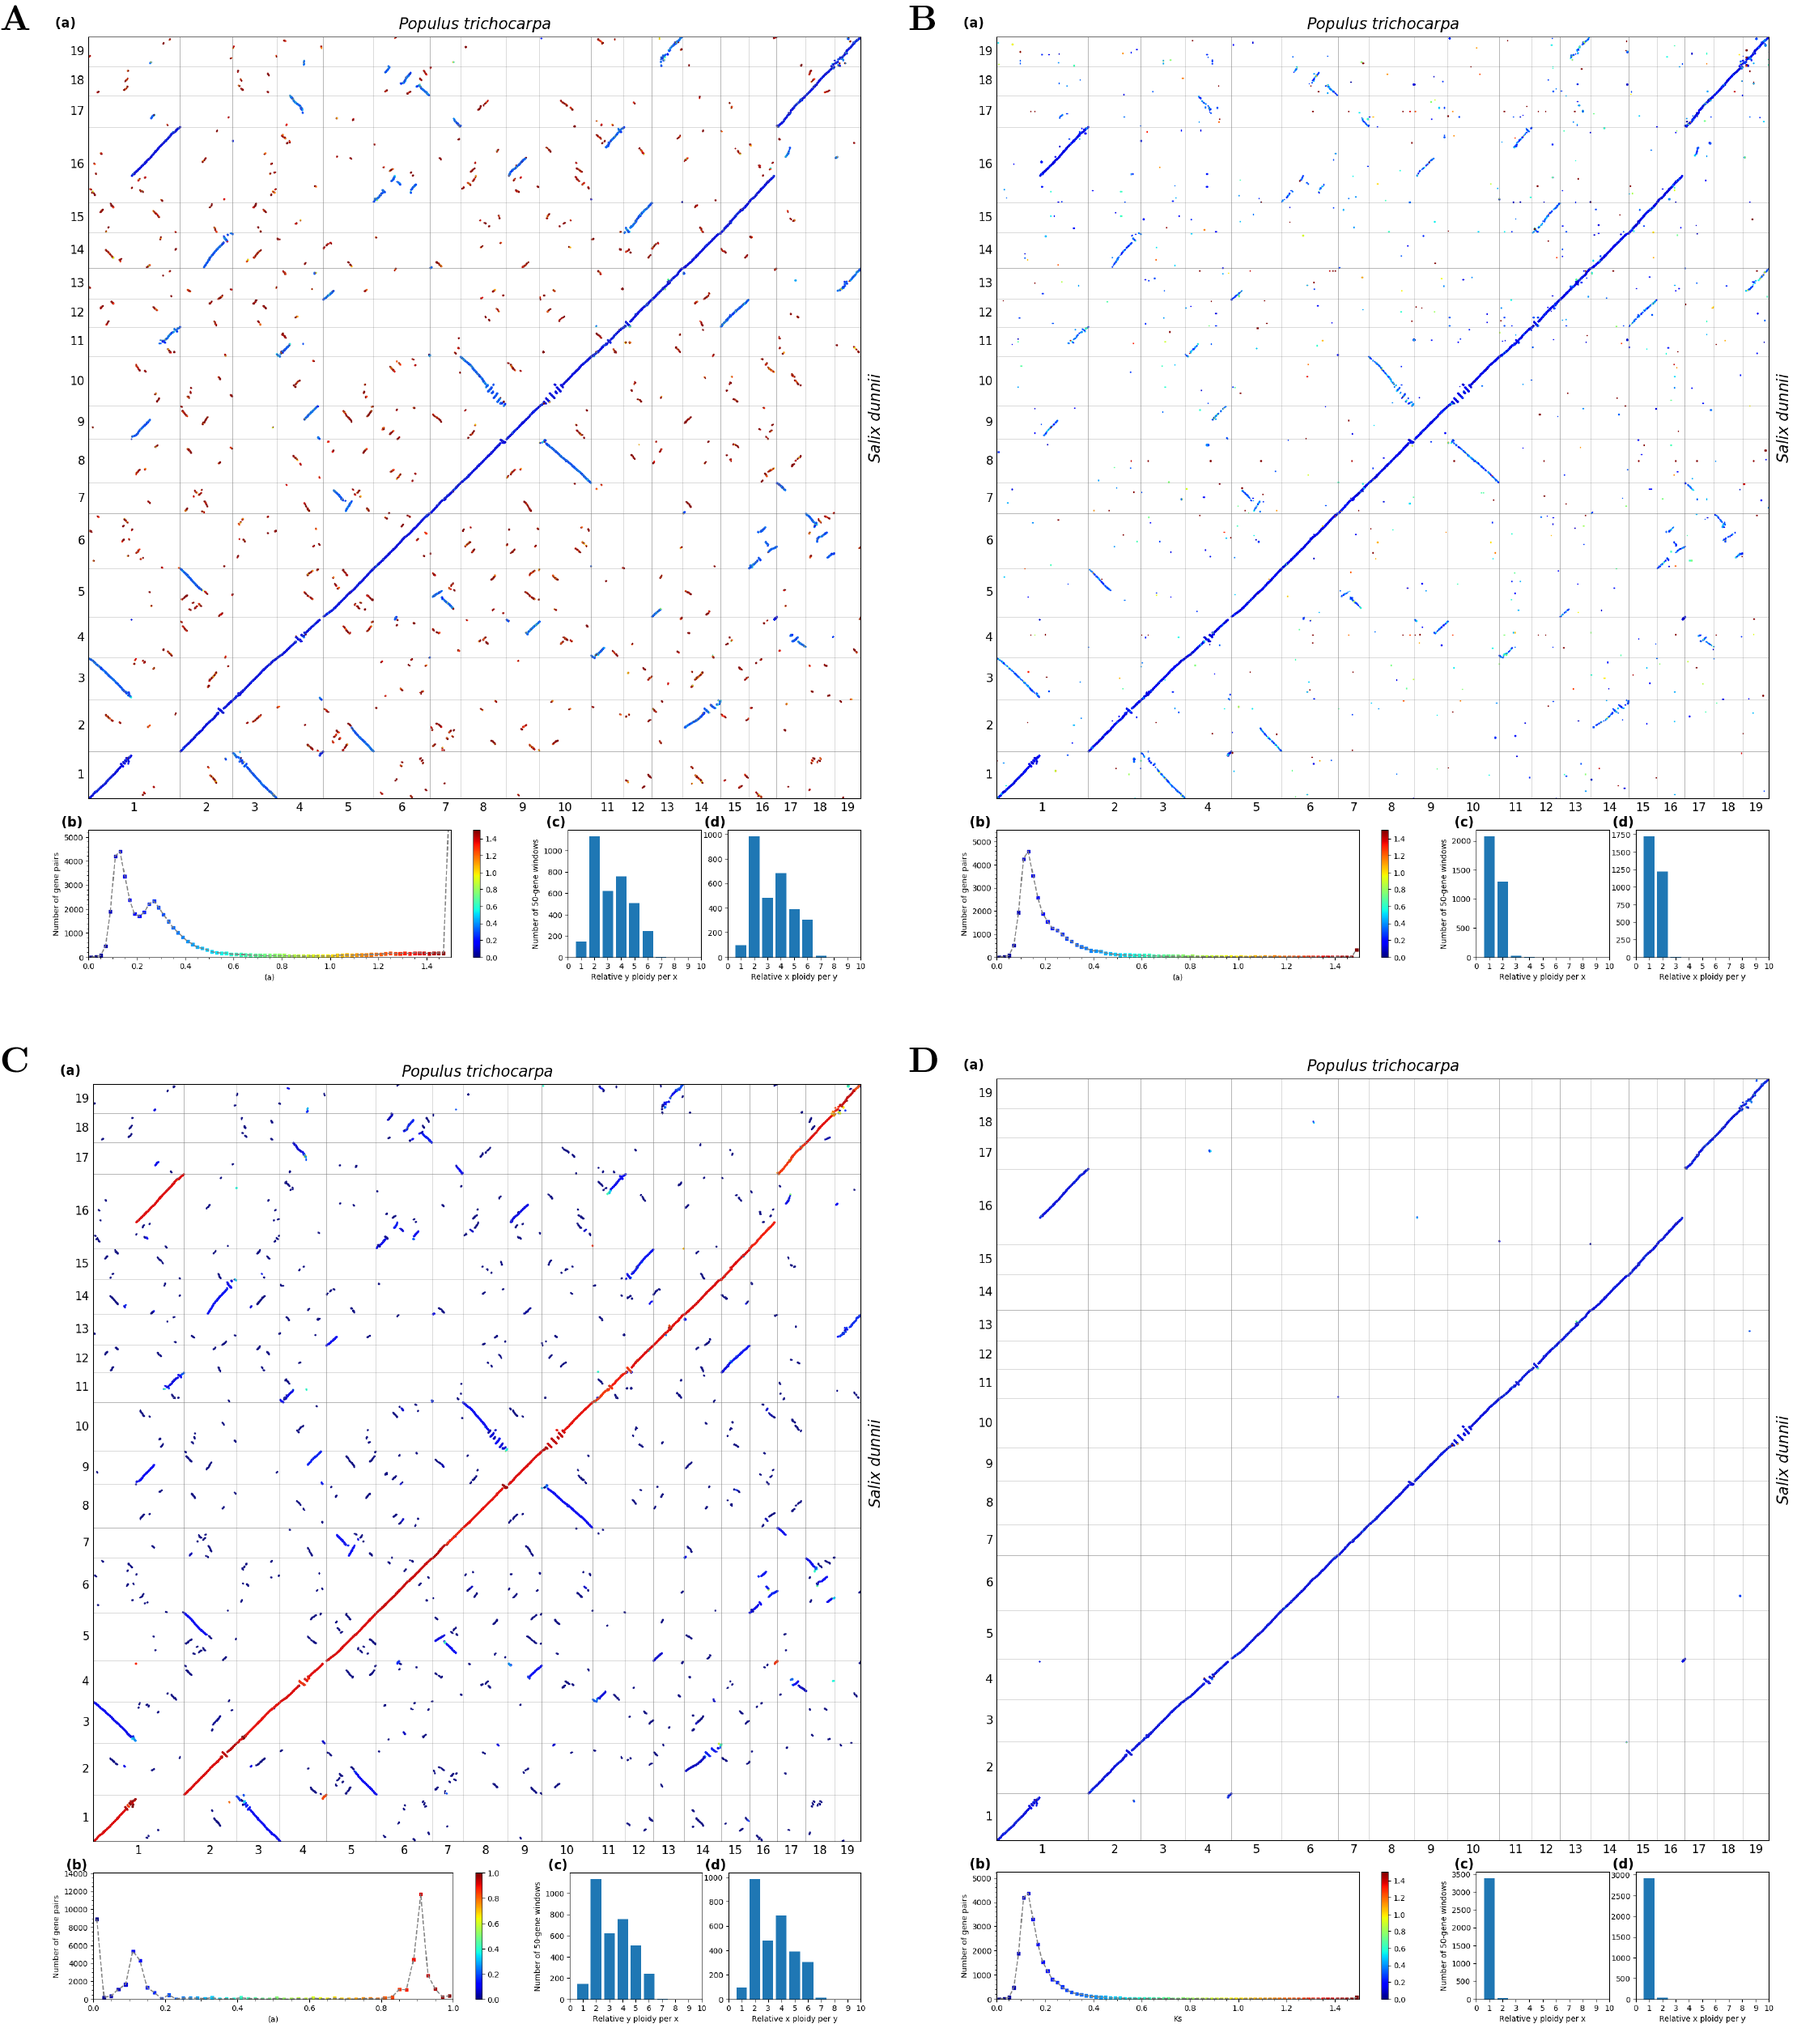
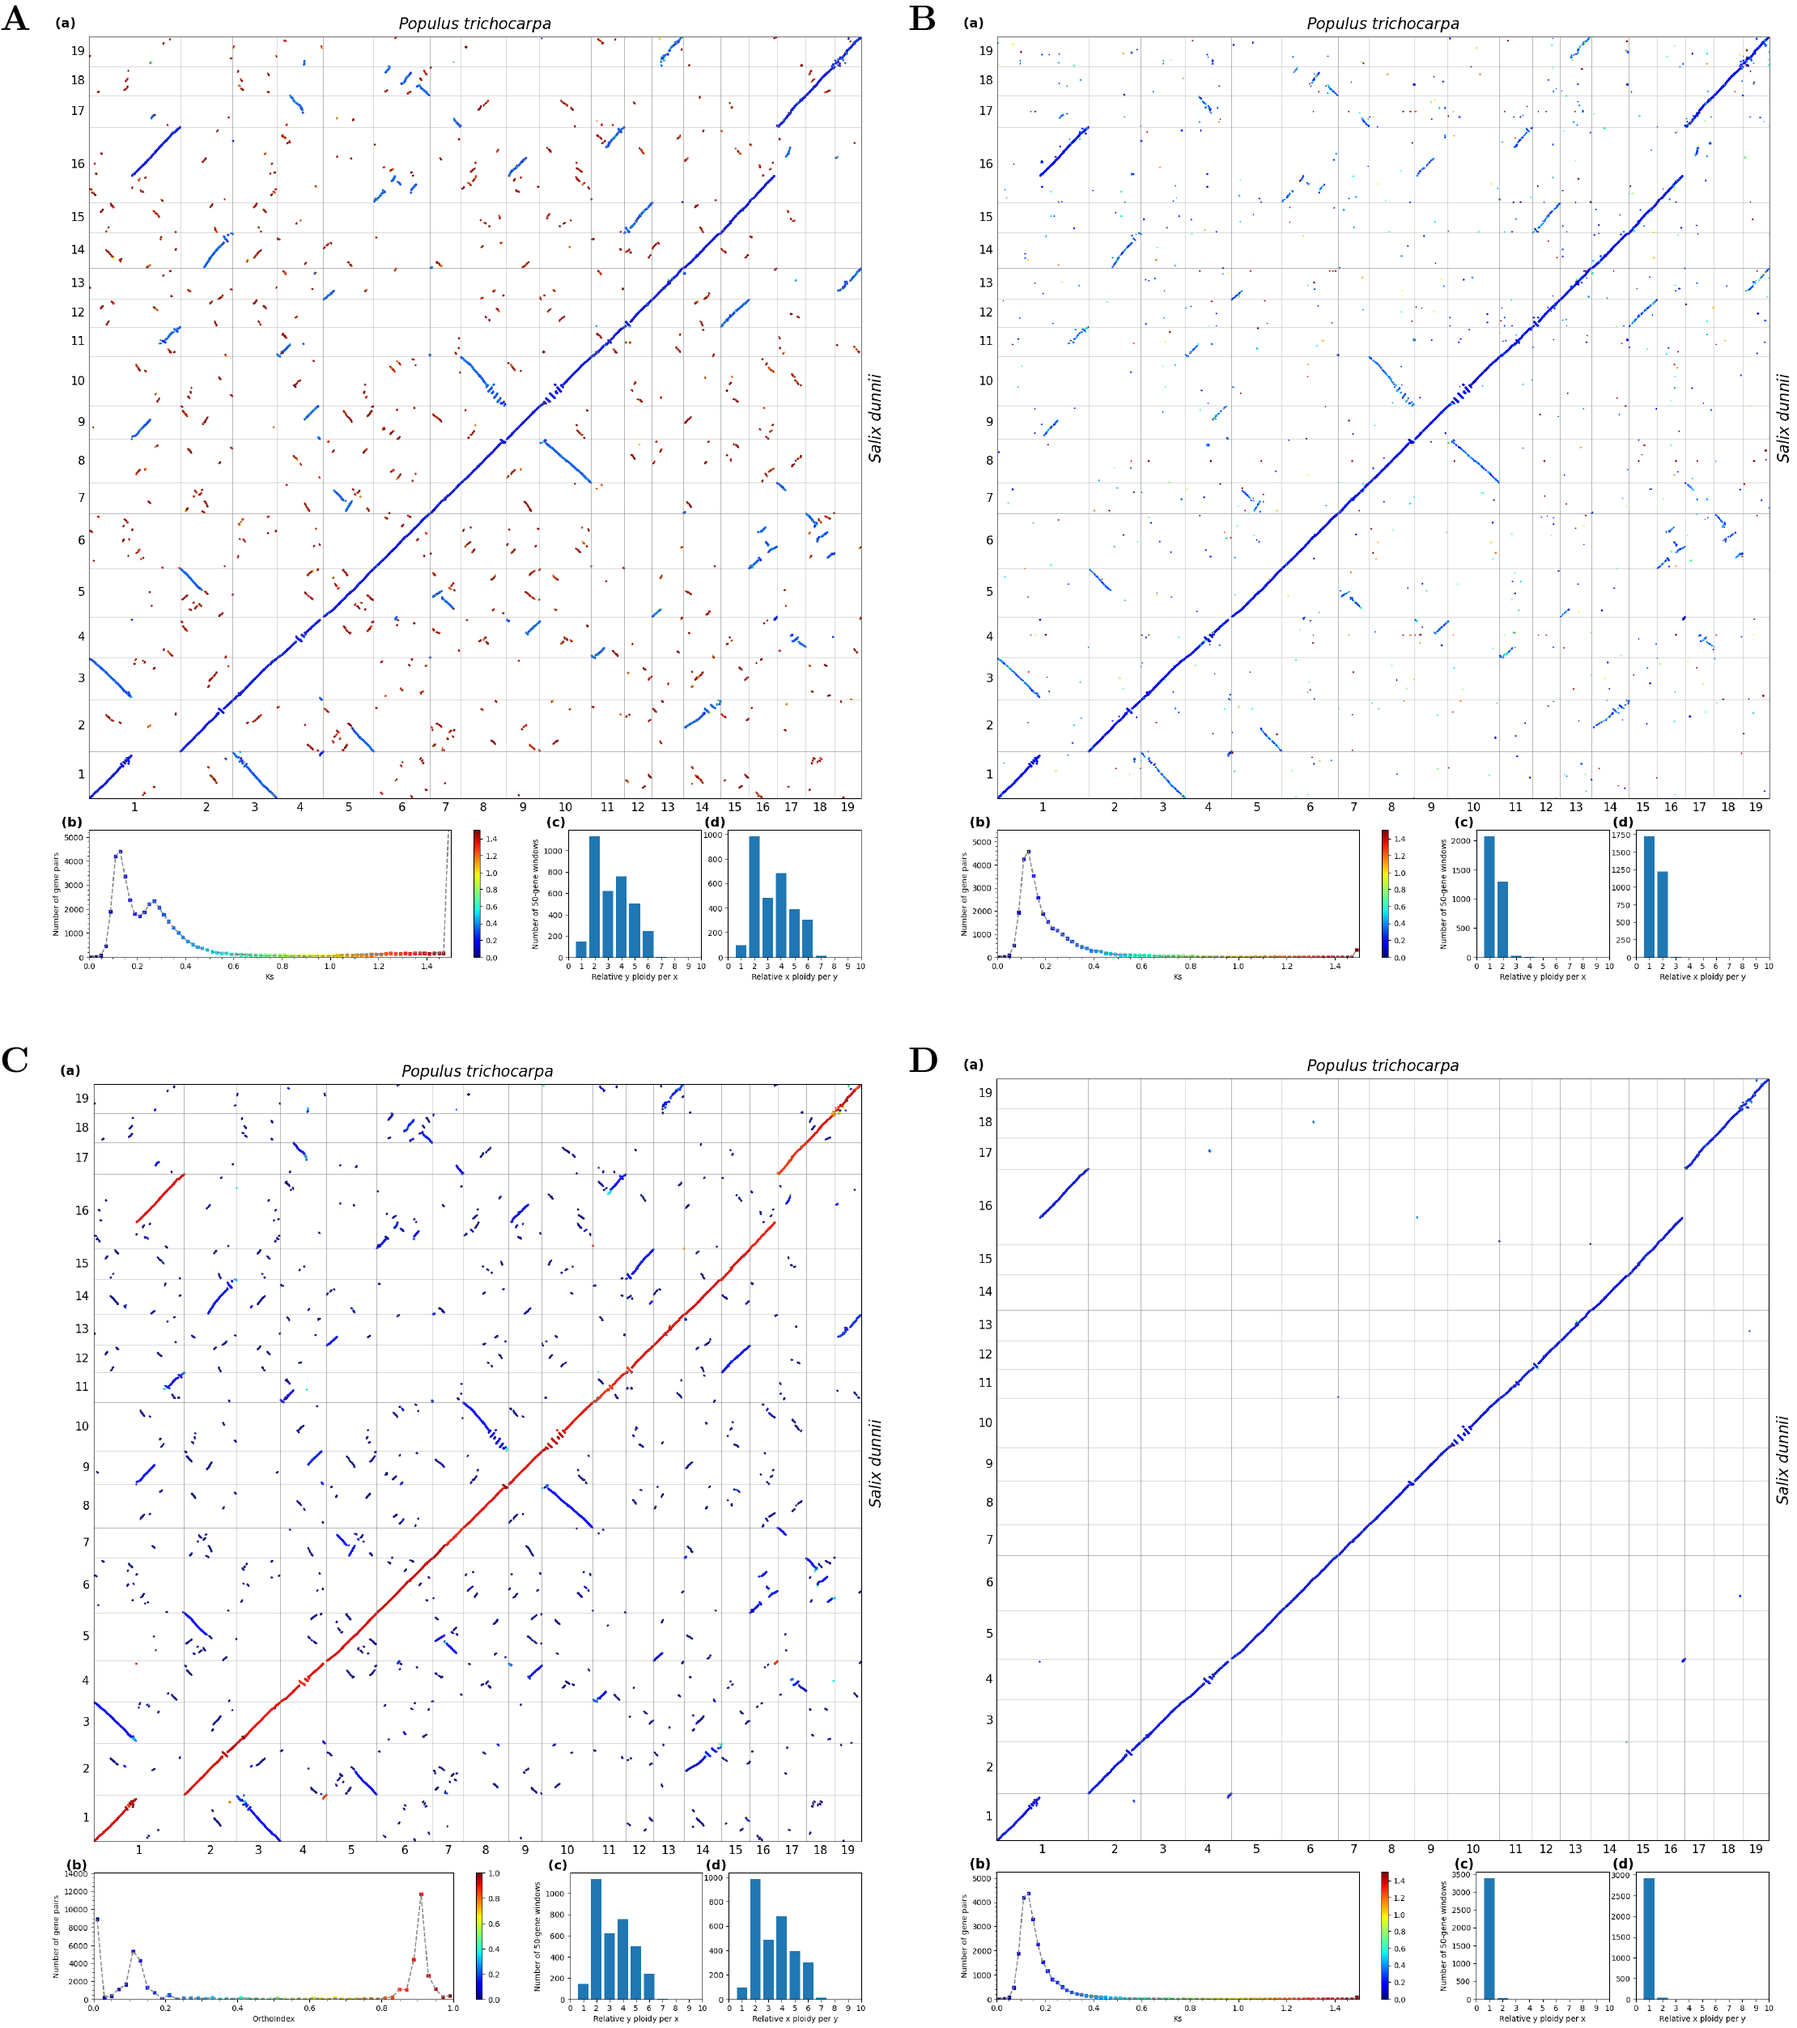
update readme and figure

diff --git a/README.md b/README.md
@@ -1,3 +1,20 @@
+## Table of Contents
+
+   * [Quick start](#Quick-start)
+   * [Introduction](#introduction)
+   * [Installation](#Installation)
+      - [conda](#conda)
+      - [Apptainer/Singularity](#apptainersingularity)
+   * [Subcommands](#Subcommands)
+      - [filter](#filter)
+      - [cluster](#cluster)
+      - [outgroup](#outgroup)
+      - [phylo](#phylo)
+      - [dotplot](#dotplot)
+   * [Phylogenomics pipeline](#Phylogenomics-pipeline)
+   * [Input formats](#input-formats)
+   * [Output formats](#output-formats)
+
 ## Quick start ##
 ```
 git clone https://github.com/zhangrengang/orthoindex.git
@@ -56,22 +73,22 @@ soi filter -s Populus_trichocarpa-Salix_dunnii.collinearity.gz -o Populus_tricho
 ```
 ### Example output dot plots ###
 ![dotplots](example_data/mege_4dot.png)
-
-## Table of Contents
-
-   * [Introduction](#introduction)
-   * [Installation](#Installation)
-      - [conda](#conda)
-      - [Apptainer/Singularity](#apptainersingularity)
-   * [Subcommands](#Subcommands)
-      - [filter](#filter)
-      - [cluster](#cluster)
-      - [outgroup](#outgroup)
-      - [phylo](#phylo)
-      - [dotplot](#dotplot)
-   * [Phylogenomics pipeline](#Phylogenomics-pipeline)
-   * [Input formats](#input-formats)
-   * [Output formats](#output-formats)
+Figure. The Orthology Index in identifying orthologous synteny: a typical case. 
+A) Ks-colored dot plots showing synteny detected by WGDI, 
+with an observable distinction of three categories of syntenic blocks derived from three evolutionary events 
+(three peaks: Ks ≈ 1.5, Ks ≈ 0.27, and Ks ≈ 0.13). 
+B) Ks-colored dot plots illustrating orthology inferred by OrthoFinder2, with an observable high proportion of hidden out-paralogs (Ks ≈ 0.27). 
+C) Orthology Index (OI)-colored dot plots: integrating synteny (A) and orthology (B), 
+with polarized and scalable distinction of three categories of syntenic blocks 
+(three peaks: OI ≈ 0, OI ≈ 0.1, and OI ≈ 0.9). 
+D) Ks-colored dot plots of synteny after applying an OI cutoff of 0.6, 
+with clean 1:1 orthology as expected from the evolutionary history. 
+A-D are plotted using the `dotplot` subcommand with four subplots: 
+a) dot plots with colored by Ks or OI (x-axis and y-axis, chromosomes of the two genomes; 
+a dot indicates a homologous gene pair between the two genomes), 
+b) histogram (with the same color map as the dot plots) of Ks or OI 
+(x-axis, Ks or OI; y-axis, number of homologous gene pairs), 
+c-d) synteny depth (relative ploidy) derived from 50-gene windows (x-axis, synteny depth; y-axis, number of windows).
 
 ## Introduction ##
 Orthology Index (OrthoIndex or OI) incorporates algorithmic advances of two methods (orthology inference and synteny detection), to determine the orthology of a syntenic block. 
@@ -79,7 +96,7 @@ It is straightforward, representing the proportion of orthologous gene pairs wit
 
 ## Installation ##
 #### conda ####
-You can install the environment using [conda](https://anaconda.org/):
+You can install the environment and the lasest verion using [conda](https://anaconda.org/):
 ```
 git clone https://github.com/zhangrengang/orthoindex.git
 cd orthoindex
@@ -93,14 +110,14 @@ soi -h
 #### Apptainer/Singularity ####
 To use the container, you need to have installed [Apptainer](https://apptainer.org/docs/user/latest/index.html) or 
 [Singularity](https://sylabs.io/docs/). 
-Then you can download the image and run:
+Then you can download the container image and run:
 ```
 apptainer remote add --no-login SylabsCloud cloud.sylabs.io
 apptainer remote use SylabsCloud
 apptainer pull orthoindex.sif library://shang-hongyun/collection/centos8dock-orthoindex.sif:1.0
 ./orthoindex.sif soi -h
 ```
-The image can be founde [here](https://cloud.sylabs.io/library/shang-hongyun/collection/centos8dock-orthoindex.sif).
+The image can be found [here](https://cloud.sylabs.io/library/shang-hongyun/collection/centos8dock-orthoindex.sif).
 
 ## Subcommands ##
 ```
@@ -142,17 +159,17 @@ optional arguments:
 Usage examples:
 ```
 # from outputs of WGDI and OrthoFinder
-soi filter -s wgdi/*.collinearity -o OrthoFinder/*/Result*/ > collinearity.ortho
+soi filter -s wgdi/*.collinearity -o OrthoFinder/OrthoFinder/Result*/ > collinearity.ortho
 
 # from outputs of MCscanX and OrthoMCL
-soi filter -s mcscanx/*.collinearity -o orthologs.txt > collinearity.ortho
+soi filter -s mcscanx/*.collinearity -o pairs/orthologs.txt > collinearity.ortho
 
 # from a list file and increase the cutoff
 ls wgdi/*.collinearity > collinearity.list
-soi filter -s collinearity.list -o OrthoFinder/*/Result*/ -c 0.7 > collinearity.ortho
+soi filter -s collinearity.list -o OrthoFinder/OrthoFinder/Result*/ -c 0.7 > collinearity.ortho
 
 # filter a paralogous peak
-soi filter -s wgdi/*.collinearity -o OrthoFinder/*/Result*/ -c 0.05 -upper 0.4 > collinearity.para
+soi filter -s wgdi/*.collinearity -o OrthoFinder/OrthoFinder/Result*/ -c 0.05 -upper 0.4 > collinearity.para
 ```
 #### `cluster` ####
 The subcommand ‘cluster’ groups orthologous syntenic genes into syntenic orthogroups (SOGs), through constructing an orthologous syntenic graph 
